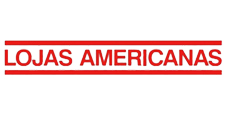
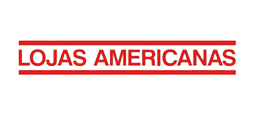
imagens parceiros linkadas, ajuste secao app.

Changed region(s): [[0.0, 0.3391, 0.9782, 0.5739], [0.0, 0.6, 0.0917, 0.6522], [0.8865, 0.6, 0.9782, 0.6522]]

diff --git a/index.html b/index.html
@@ -69,9 +69,15 @@
 			<div class="left">
 				<div class="largura-ativar">
 					<h1>Como funciona o processo de ativação?</h1>
-					<div class="topicos-ativar"><span class="icone-lista-1">1.</span><p> Adquira seu cartão Nui no varejo.</p></div>
-					<div class="topicos-ativar"><span class="icone-lista-2">2.</span><p> Ative com a primeira carga no caixa. Seu Cartão Nui está habilitado para uso, mas bloqueado.s</p></div>
-					<div class="topicos-ativar"><span class="icone-lista-3">3.</span><p> Para desbloquear e criar a senha do seu Cartão Nui, basta acessar o site ou o aplicativo.</p></div>
+					<div class="topicos-ativar"><span class="icone-lista-1">1.</span>
+						<p> Adquira seu cartão Nui no varejo.</p>
+					</div>
+					<div class="topicos-ativar"><span class="icone-lista-2">2.</span>
+						<p> Ative com a primeira carga no caixa. Seu Cartão Nui está habilitado para uso, mas bloqueado.s</p>
+					</div>
+					<div class="topicos-ativar"><span class="icone-lista-3">3.</span>
+						<p> Para desbloquear e criar a senha do seu Cartão Nui, basta acessar o site ou o aplicativo.</p>
+					</div>
 				</div>
 			</div>
 			<div class="right embalagem">
@@ -83,8 +89,8 @@
 		<div class="conteudo">
 			<div class="left">
 				<div class="celular">
-				<img src="assets/images/smartphone.png" alt="">
-			</div>
+					<img src="assets/images/smartphone.png" alt="">
+				</div>
 			</div>
 			<div class="right">
 				<div class="onde-baixar largura">
@@ -103,12 +109,19 @@
 	<div class="secao-parceiros">
 		<div class="center">
 			<h1>Onde comprar o cartão NUI</h1>
-			<img src="assets/images/onde-comprar.png" alt="">
+			<div class="parceiros">
+				<a href="http://www.americanas.com.br/" target="_blank"><img class="parceiros-logo" src="assets/images/loja-americana.png" alt=""></a>
+				<a href="https://www.samsclub.com.br" target="_blank"><img class="parceiros-logo" src="assets/images/sams-club.png" alt=""></a>
+				<a href="http://www.walmartbrasil.com.br/" target="_blank"><img class="parceiros-logo" src="assets/images/walmart.png" alt=""></a>
+				<a href="http://www.bigsupermercados.com.br/" target="_blank"><img class="parceiros-logo" src="assets/images/big-hipermercado.png" alt=""></a>
+				<a href="http://www.walmartbrasil.com.br/bandeiras/hiper-bompreco/" target="_blank"><img class="parceiros-logo" src="assets/images/hiper-bompreco.png" alt=""></a>
+				<a href="http://www.portalcoop.com.br/" target="_blank"><img class="parceiros-logo" src="assets/images/coop.png" alt=""></a>
+			</div>
 		</div>
 	</div>
 	<footer>
 		<div class="center">
-			<p><span>© Pré-Pago NUI</span> - <a href=" https://acesso.brasilprepagos.com.br/files/terms/3.pdf">Termos Condições Real</a> - Atendimento - <a href="https://cartaonui.zendesk.com/hc/pt-br/articles/213420626-Quais-as-tarifas-do-Cartão-Nui-?">Tarifas do Cartão</a></p>
+			<p><span>© Pré-Pago NUI</span> - <a href=" https://acesso.brasilprepagos.com.br/files/terms/3.pdf">Termos Condições</a> - Atendimento - <a href="https://cartaonui.zendesk.com/hc/pt-br/articles/213420626-Quais-as-tarifas-do-Cartão-Nui-?">Tarifas do Cartão</a></p>
 		</div>
 	</footer>
 </body>

diff --git a/assets/css/media-querie.css b/assets/css/media-querie.css
@@ -101,6 +101,9 @@
 	.onde-baixar img:first-child {
 		margin-bottom: 1rem
 	}
+	.parceiros-logo{
+		width: 100%;
+	}
 }
 @media (max-width:400px) {
 	.secao-ativar {
@@ -119,7 +122,7 @@
 		top: 3080px;
 	}
 	footer {
-		top: 2880px;
+		top: 3280px;
 	}
 	/*posicionando imagens de onde baixar o app*/
 	.onde-baixar a {
@@ -238,6 +241,11 @@
 		left: 15em;
 	}
 }
+@media(max-width:1725px){
+	.celular{
+		left: 30em;
+	}
+}
 @media(max-width: 1441px) {
 	/*secao app, espacando celular do conteudo*/
 	.celular {
@@ -250,7 +258,7 @@
 		left: 20em;
 	}
 }
-@media(min-width: 1450px) {
+@media(min-width: 1750px) {
 	/*secao app, espacando celular do conteudo*/
 	.celular {
 		left: 55em;

diff --git a/assets/css/estilo.css b/assets/css/estilo.css
@@ -353,10 +353,11 @@
 
 	.celular {
 		width: 650px;
-		position: absolute;
+		position: relative;
 	}
 
 	.celular img {
+		position: absolute;
 		width: 100%;
 	}
 
@@ -432,4 +433,25 @@
 
 	footer a {
 		color: #c5c5c5;
+	}
+
+	@media(max-width: 769px) {
+		.parceiros {
+			width: 100%;
+			margin-left: 5rem
+		}
+	}
+
+	@media(max-width: 480px) {
+		.parceiros {
+			margin-left: 9rem
+		}
+	}
+
+	.secao-parceiros a {
+		display: inline-block
+	}
+
+	.parceiros-logo {
+		max-width: 186px;
 	}
